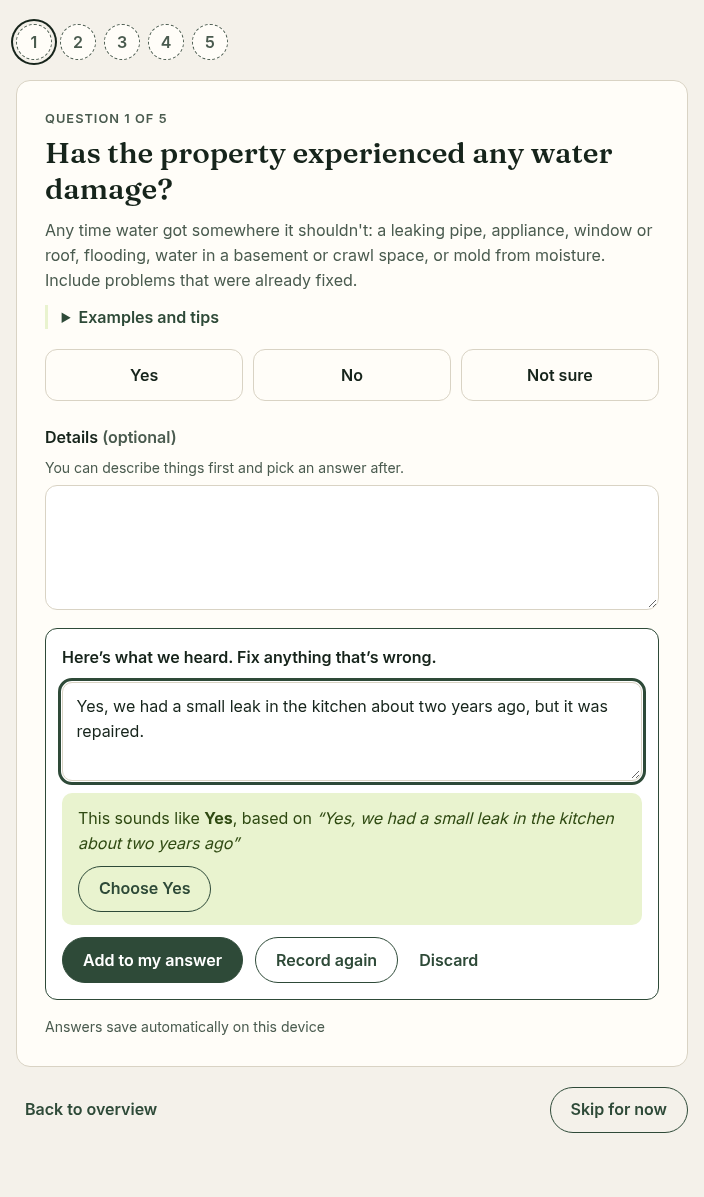
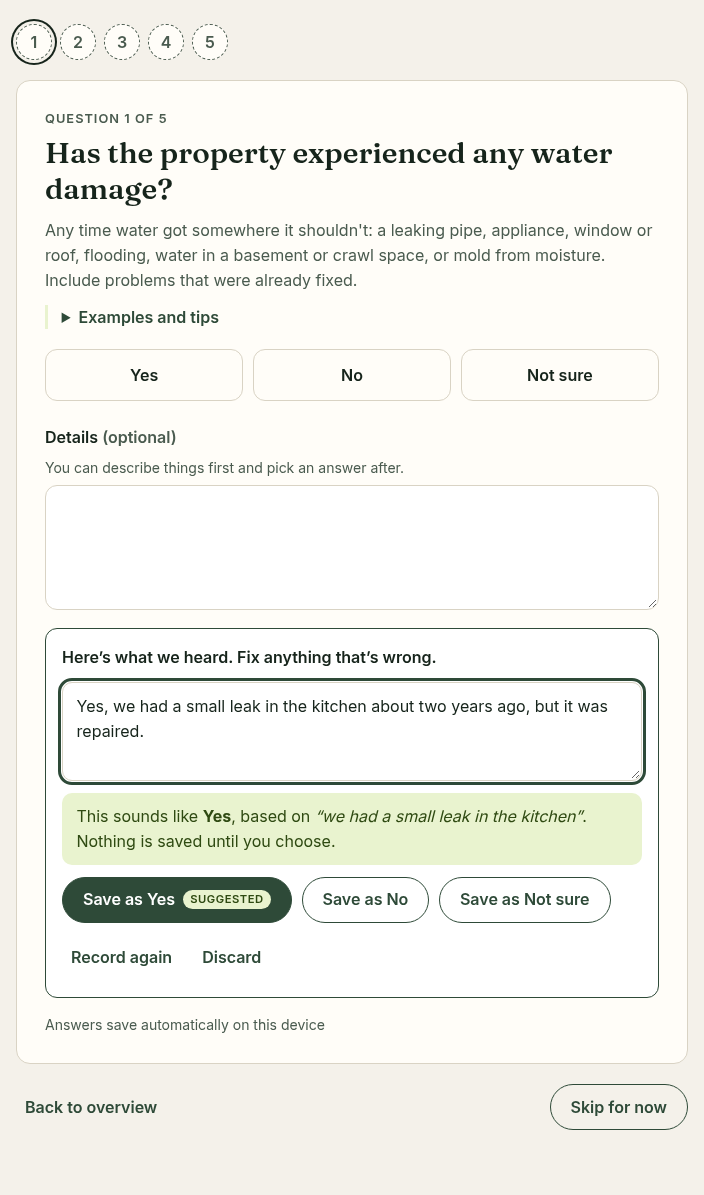
Update the README for model suggestions and one-tap saving
Adds the eval results (rules vs model on 79 sample answers), explains how
suggestions are checked, and replaces the screenshot of the review step.

diff --git a/README.md b/README.md
@@ -2,7 +2,7 @@
 
 A small Next.js app where a homeowner answers five property-disclosure questions by typing or by voice. Speech goes through a server route that calls the provided OpenAI API, and the homeowner reviews every transcript, and confirms any suggested answer, before anything is saved.
 
-![Answering by voice: the transcript can be edited, and the suggested answer only applies when tapped](docs/screenshots/voice-review.png)
+![Answering by voice: the transcript can be edited, and the suggested answer is highlighted but only saved when tapped](docs/screenshots/voice-review.png)
 
 ## Running it
 
@@ -15,7 +15,7 @@ npm run dev                  # http://localhost:3000
 ```
 
 Without a key the app still works: voice answers are hidden with a short note, and typing works as usual.
-If the key can't use `gpt-transcribe`, set `OPENAI_TRANSCRIBE_MODEL` (for example `gpt-4o-mini-transcribe`); the server logs the API's status and error code.
+If the key can't use the default models, set `OPENAI_TRANSCRIBE_MODEL` (for example `gpt-4o-mini-transcribe`) or `OPENAI_SUGGEST_MODEL`; the server logs the API's status and error code.
 
 Tests:
 
@@ -25,6 +25,7 @@ npm run typecheck                 # generates Next.js route types, then runs tsc
 npx playwright install chromium   # once, for the browser tests
 npm run e2e                       # browser tests with a fake microphone and a mocked API
 REAL_API=1 npm run e2e -- e2e/real-api.spec.ts   # one test against the real API (needs the key)
+npm run eval                      # scores suggestions on 79 sample answers (needs npm run dev and the key)
 ```
 
 ## Where each requirement is
@@ -34,7 +35,7 @@ REAL_API=1 npm run e2e -- e2e/real-api.spec.ts   # one test against the real API
 | Property overview: address, seller, completion status | `/`, `src/components/Overview.tsx` |
 | Five questions with Yes / No / Not sure, optional explanation, editable answers | `/q/[id]`, `src/components/QuestionView.tsx`; content in `src/lib/questions.ts` |
 | Voice: mic button, record, transcribe with the provided API, show, review and edit before saving, typing still available | `src/components/VoiceAnswer.tsx`, `src/hooks/useRecorder.ts`, `src/app/api/transcribe/route.ts`, `src/lib/openai.ts` |
-| Suggested Yes / No / Not sure that the homeowner must confirm | `src/lib/suggest.ts`, shown in `VoiceAnswer.tsx` |
+| Suggested Yes / No / Not sure that the homeowner must confirm | `src/app/api/suggest/route.ts`, `src/lib/suggestion.ts`, shown in `VoiceAnswer.tsx`; measured with `evals/` |
 | Progress: "3 of 5", "60%", "2 remaining", unanswered questions marked | `src/components/ProgressSummary.tsx`, `getProgress` in `src/lib/answers.ts` |
 | Review and edit screen | `/review`, `src/components/ReviewView.tsx` |
 | Answers survive a refresh | `src/lib/storage.ts`, `src/lib/answers-store.ts` |
@@ -51,31 +52,40 @@ REAL_API=1 npm run e2e -- e2e/real-api.spec.ts   # one test against the real API
 1. "Answer by voice" asks for the microphone and records with `MediaRecorder`: WebM/Opus in Chrome, Firefox and Safari 18.4+, MP4/AAC on older Safari. One recording is capped at 2 minutes.
 2. When the homeowner stops, the clip is posted to `/api/transcribe` with the question id.
 3. The route checks the size and type, names the file after its real container (the API detects the format from the file name), and calls `POST /v1/audio/transcriptions` with `gpt-transcribe`. The question is sent as the prompt and a few domain words ("sump pump", "GFCI") as keywords, which helps with spelling.
-4. The transcript appears in an editable box. If the words clearly say Yes, No or Not sure, the app shows a suggestion with the quoted phrase it is based on. Nothing is selected until the homeowner taps it. "Add to my answer" appends the text to their explanation.
+4. The transcript appears in an editable box, with three buttons: Save as Yes, Save as No and Save as Not sure. One tap sets the answer and appends the text to the explanation.
+5. Meanwhile the transcript goes to `/api/suggest`, which asks a small model (`gpt-6-luna`) which answer it gives, using Structured Outputs. The suggestion arrives a second or two later, highlights one of the buttons and quotes the words it is based on. Nothing is chosen until the homeowner taps.
 
-The key is read only in `src/lib/openai.ts`, which imports `server-only`, so a client import fails the build. The browser only ever talks to this app. If transcription fails, the recording is kept and "Try again" resends it. Each failure (microphone blocked, no microphone, unreadable audio, service busy or down, no key configured) has its own message, and typing always remains an option.
+The key is read only in `src/lib/openai.ts`, which imports `server-only`, so a client import fails the build. The browser only ever talks to this app. A dropped connection to the API is retried once on the server; if transcription still fails, the recording is kept and "Try again" resends it. If the suggestion fails, the buttons simply show no suggestion. Each failure (microphone blocked, no microphone, unreadable audio, service busy or down, no key configured) has its own message, and typing always remains an option.
 
 ### State
 
 Answers are a map from question id to `{ choice, note, usedVoice, updatedAt }`. A pure reducer in `answers.ts` applies changes. `answers-store.ts` treats localStorage as the source of truth and hands it to React through `useSyncExternalStore`, which avoids server/client hydration mismatches and keeps two open tabs in sync. Saved data carries a version number and is validated on load, so old or corrupt data resets instead of crashing the page.
 
-Answers save as the homeowner goes; there is no Save button. A question counts as answered once Yes, No or Not sure is picked. Notes on their own don't count, and the overview says so.
+Typed answers save as the homeowner goes, with no Save button. A spoken answer is saved when the homeowner taps one of the Save buttons. A question counts as answered once Yes, No or Not sure is picked. Notes on their own don't count, and the overview says so.
 
 ## Decisions and trade-offs
 
 - **Next.js, with a route handler as the "lightweight server".** One app and one `npm run dev`, and the key never leaves the server.
 - **Record, then transcribe.** The brief asks for record-and-transcribe. I also tried OpenAI's Realtime transcription over WebRTC, where words appear while you speak. It works, but the browser has to connect to OpenAI directly instead of going through this app, and in my test the words spoken before the connection was ready were lost. Here those are often the "Yes" or "No" the suggestion relies on. GPT-Live is a conversational agent that talks back, which the brief says isn't needed.
-- **Suggestions from rules, not a model.** The rules are deterministic, covered by 49 test cases (`src/lib/suggest.test.ts`), and say nothing when unsure. Belief hedges such as "I think so" or "I don't think so" become Not sure, never No. "Not that I know of" becomes No, shown as "as far as you know". "No, but…" gets no suggestion. A language model would catch more indirect answers, but it would need a check against invented evidence and would add a second call.
+- **Suggestions from a small model, checked against the transcript.** My first version used keyword rules. A review found they made confident wrong suggestions on ordinary answers: "No, just a small leak under the sink last year" became No. I wrote 79 sample answers (`evals/suggestions.json`), each labelled with every suggestion a careful reviewer would accept, and scored both approaches:
+
+  | On the 79 sample answers | Correct | No suggestion | Wrong | Wrongly suggested No |
+  | --- | --- | --- | --- | --- |
+  | Keyword rules (first version) | 48 | 11 | 5 | 15 |
+  | Model, run 1 | 75 | 2 | 2 | 0 |
+  | Model, run 2 | 78 | 1 | 0 | 0 |
+
+  The two model mistakes suggested Yes for things that probably don't need disclosing ("We replaced the roof in 2019"), which costs one tap. With the API's default temperature, one earlier run suggested No for an old roof that "has a few more years in it". Temperature is now 0, but the runs above still differ slightly, which is one reason the homeowner always makes the final choice. The model must quote its evidence, and a suggestion whose quote doesn't appear in the transcript is dropped. Suggestion requests are sent with `store: false`, so OpenAI doesn't keep the response for later retrieval.
 - **"Not sure" is a real answer.** It counts toward progress but is flagged for the agent, because a blank reads as an omission while an honest "I don't know" is a disclosure.
 - **The seller's words are kept.** Transcripts are added verbatim after the seller's edits; the app never rewrites an explanation.
-- **Plain-language help (the extra feature).** Each question says what counts in one sentence (including problems that were already fixed), gives examples, and says what to do when unsure. Most of what makes disclosure forms intimidating is not knowing what counts.
+- **Plain-language help (the extra feature).** Each question says what counts in one sentence (including problems that were already fixed), gives examples, and says what to do when unsure. Most of what makes disclosure forms intimidating is not knowing what counts. The same "what counts" sentence is given to the model when it suggests an answer.
 - **Design.** Colors follow loqol.ai. One question per page with a step indicator, large tap targets, phone-width layout, and labelled, announced microphone states for keyboard and screen reader users.
 
 ## Limitations
 
 - Answers live in one browser on one device. Clearing site data erases them.
 - Automated tests run in Chromium with a fake microphone. Firefox and Safari use the same code path but haven't been tested by hand.
-- The suggestion rules are English-only and tuned to these five questions.
+- The suggestion eval is small: 79 answers I wrote, not real sellers' speech. Suggestions add a second API call and arrive a second or two after the transcript.
 - `/api/transcribe` only rejects cross-site browser requests. A public deployment would need sign-in and rate limiting.
 - The app doesn't store audio, but recordings are sent to OpenAI to be transcribed.
 
@@ -86,7 +96,7 @@ Answers save as the homeowner goes; there is no Save button. A question counts a
 - An agent view: answers that need follow-up, comments, and a signed, versioned snapshot, where a later change becomes a new disclosure instead of an edit.
 - A backend so the seller and agent see the same answers.
 - Spanish and Chinese.
-- Measuring how many answers are given by voice, how often suggestions are accepted or changed, and the Not sure rate per question.
+- Measuring how many answers are given by voice, how often suggestions are accepted or changed, and the Not sure rate per question, and growing the eval from real (consented) answers.
 
 ## Notes
 
